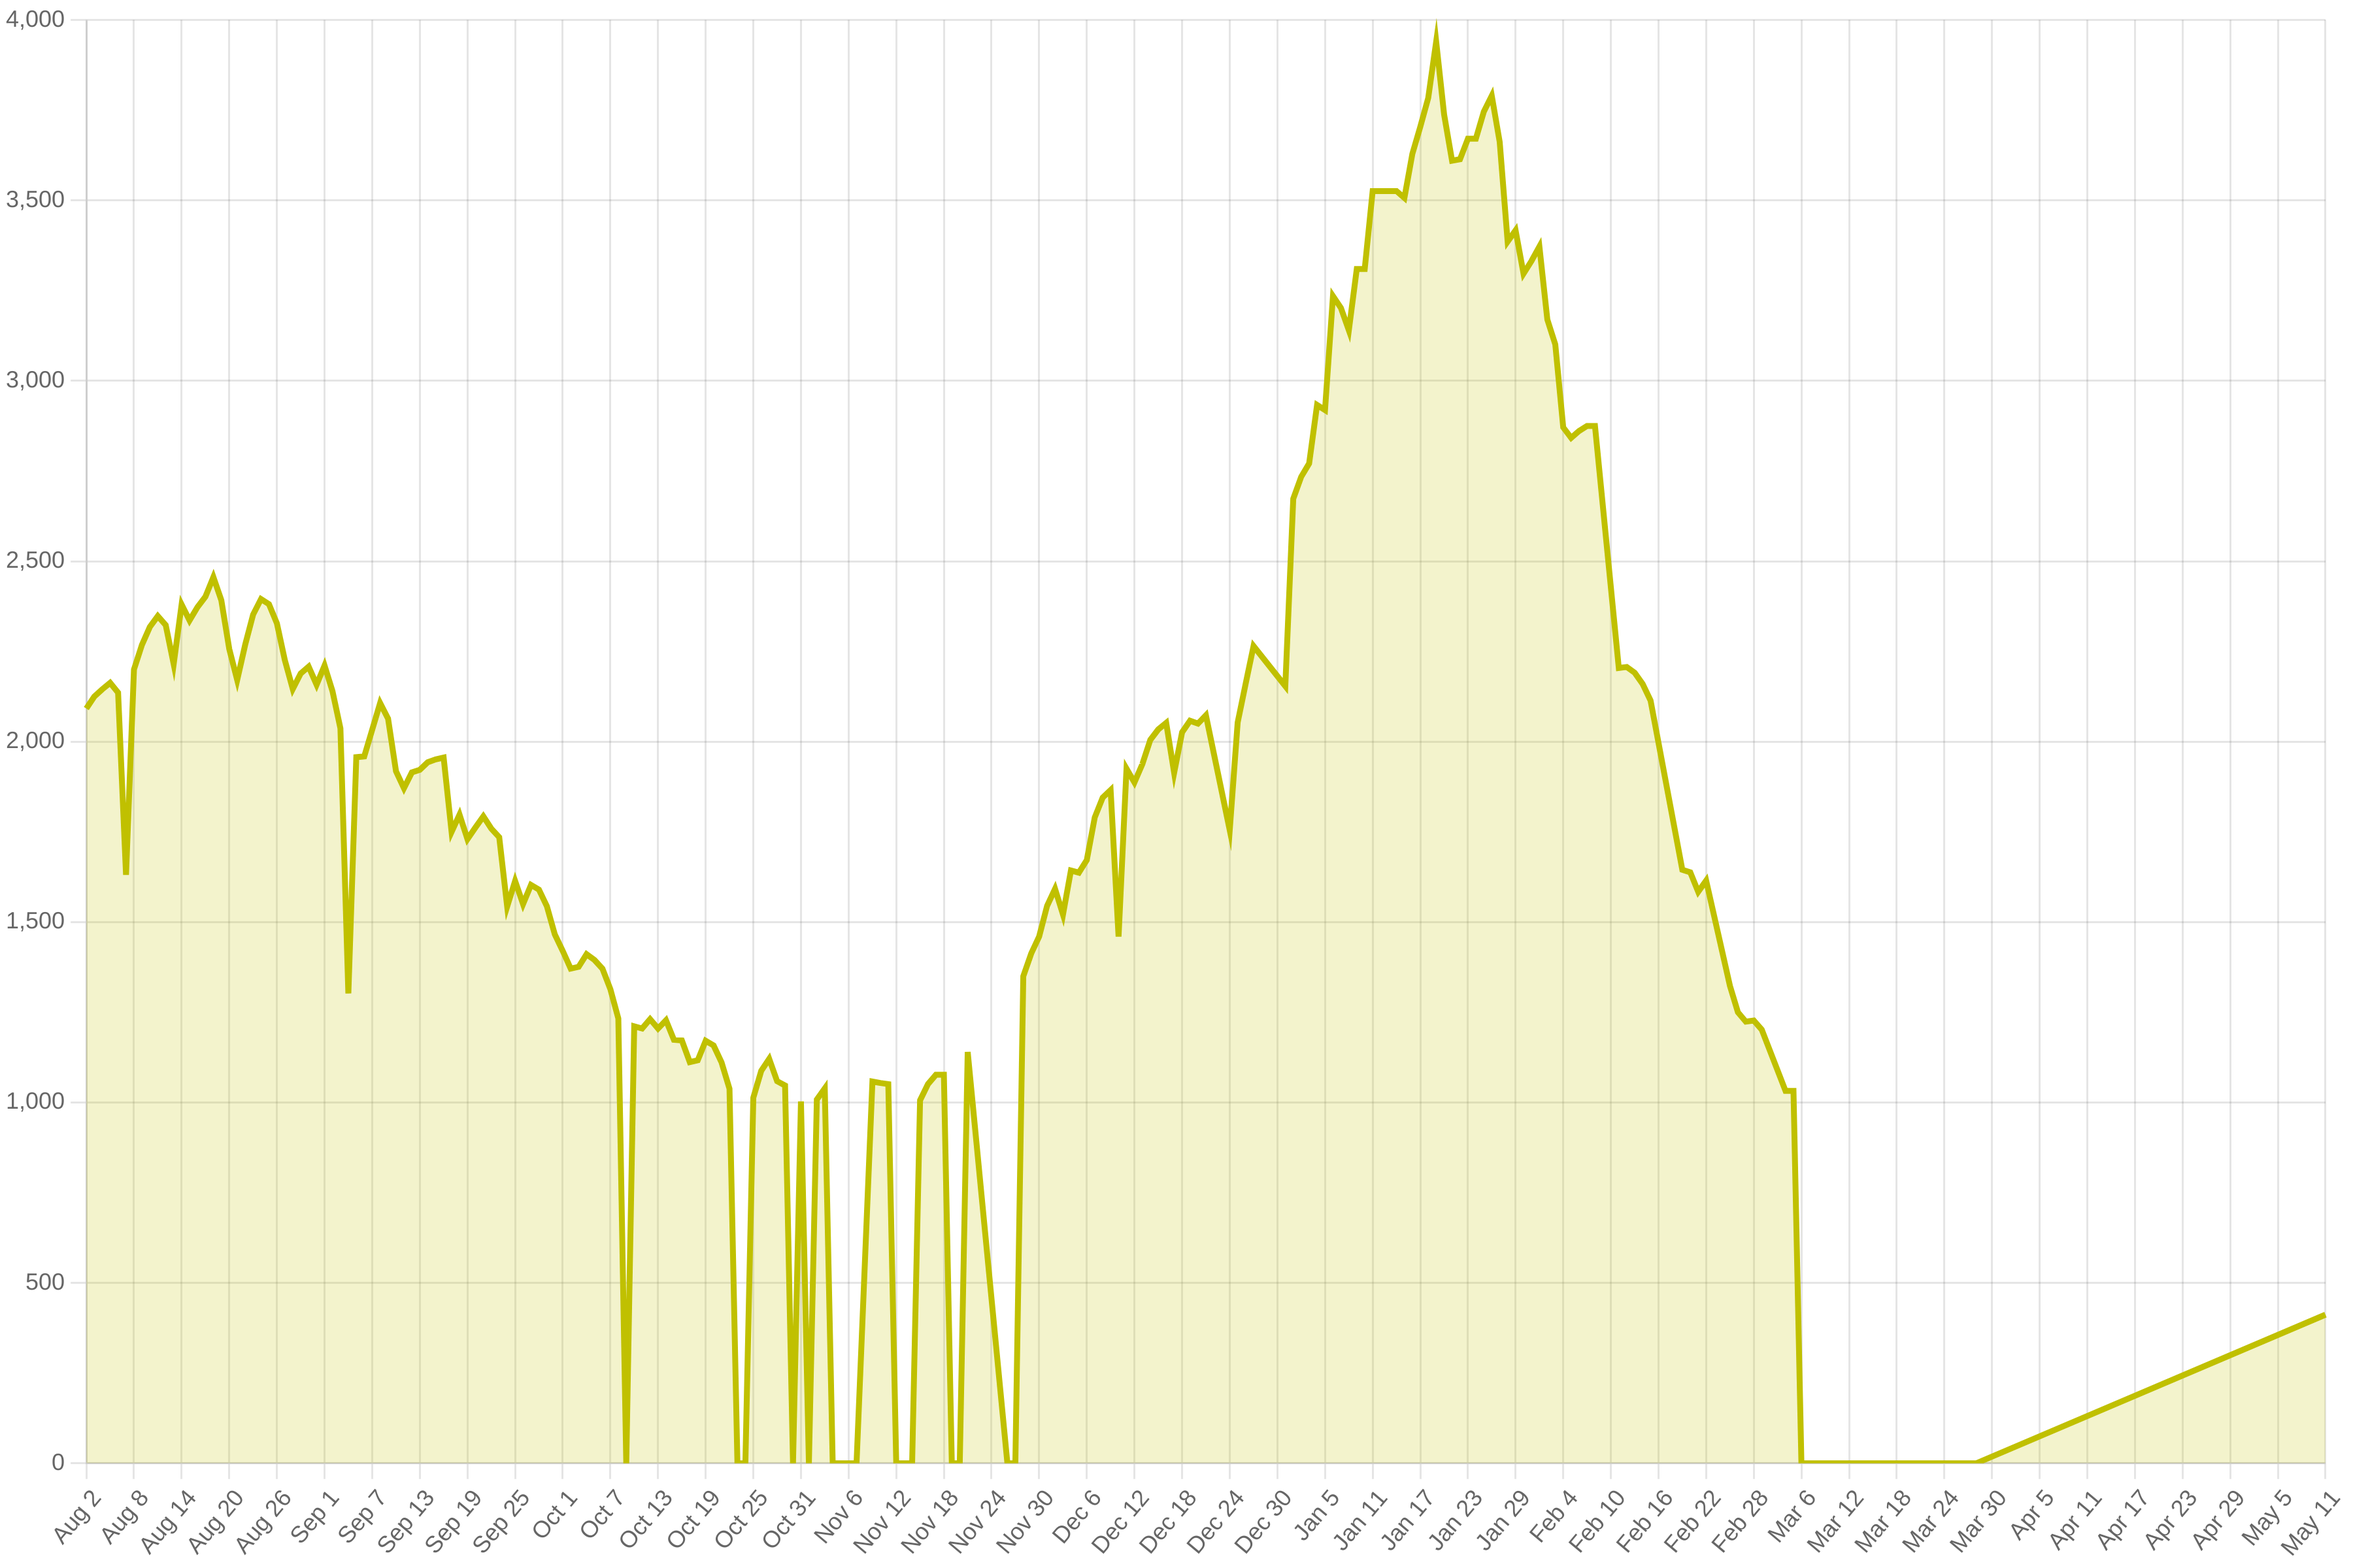
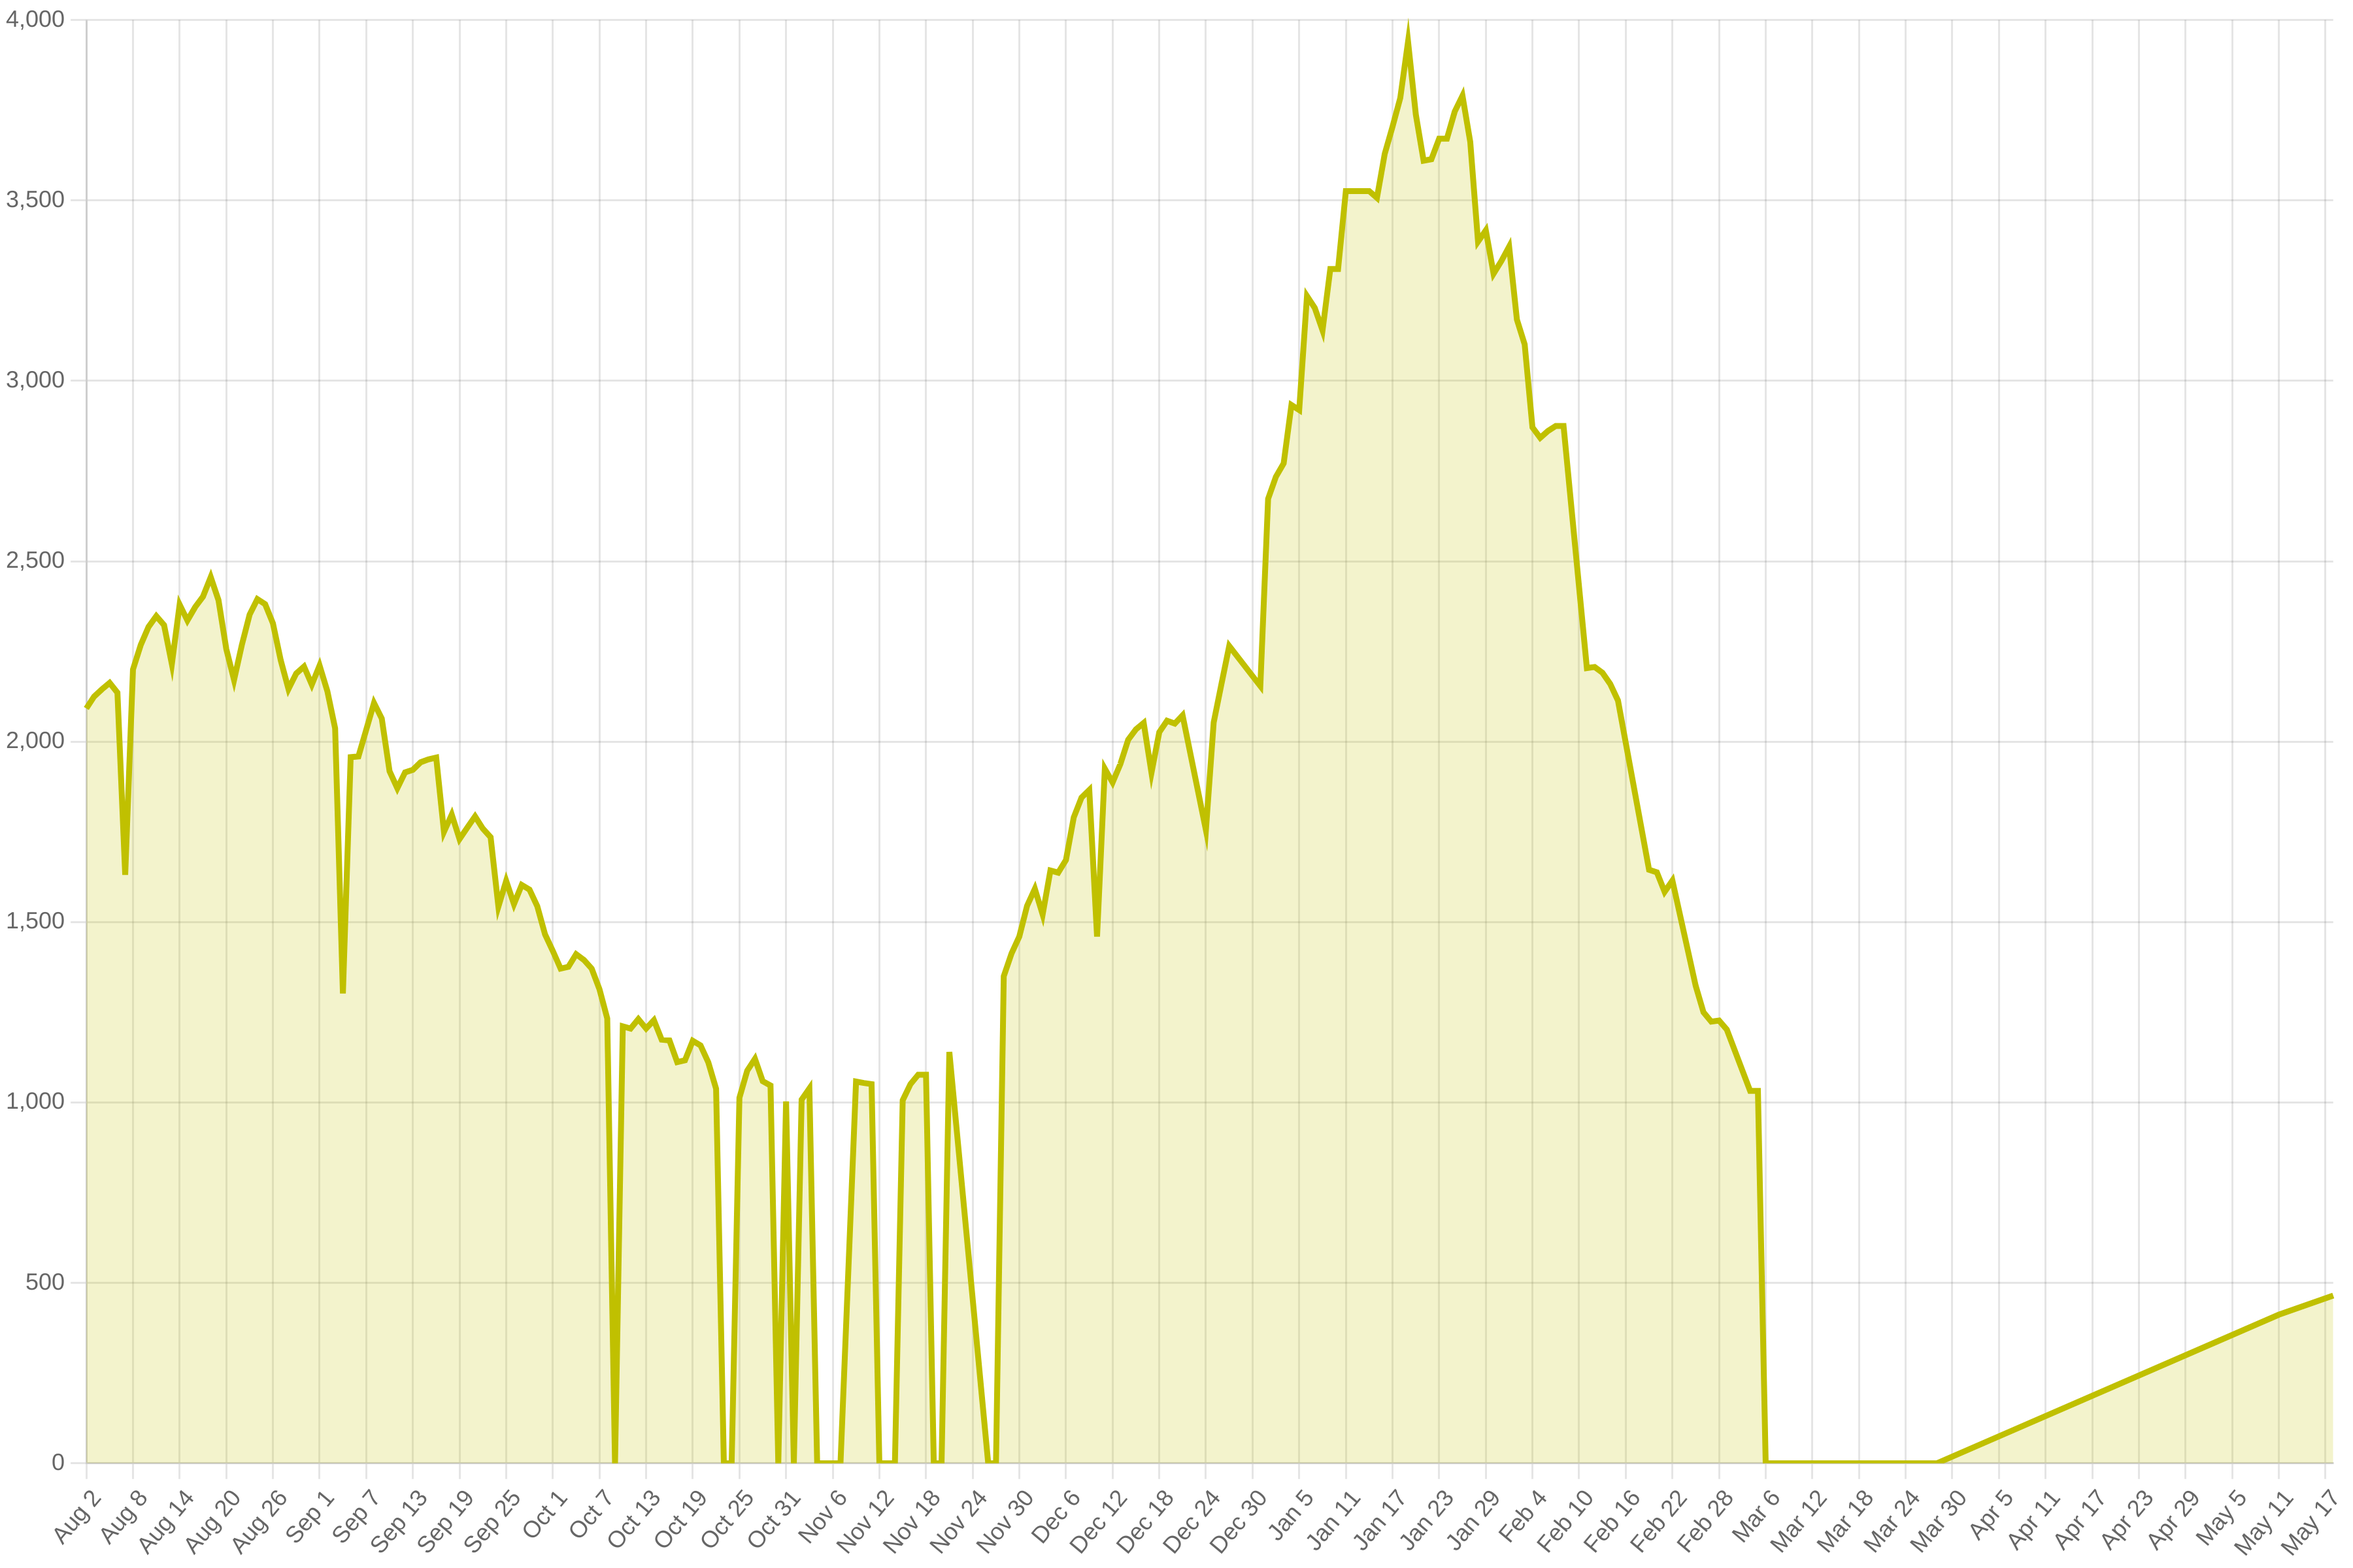
regular update

Changed region(s): [[0.0622, 0.0, 0.9956, 1.0]]

diff --git a/docs/index.html b/docs/index.html
@@ -43,10 +43,10 @@
     <main>
       <h1>Missouri COVID data</h1>
       <p>
-        The data on this page was updated <strong>Friday, May 13, 2022</strong>. For
+        The data on this page was updated <strong>Friday, May 20, 2022</strong>. For
         the values that are averages over 7 days, the start date is
-        <strong>Thursday, May 5, 2022</strong> and the end date is
-        <strong>Wednesday, May 11, 2022</strong>. The original data comes from the
+        <strong>Thursday, May 12, 2022</strong> and the end date is
+        <strong>Wednesday, May 18, 2022</strong>. The original data comes from the
         <a
           href="https://results.mo.gov/t/COVID19/views/WeeklyCOVIDMockup_16487370423730/WeeklyReport-Revised-v2?:embed=y&:showVizHome=no&:host_url=https%3A%2F%2Fresults.mo.gov%2F&:embed_code_version=3&:tabs=no&:toolbar=no&:showAppBanner=false&:display_spinner=no&:loadOrderID=0"
           >Missouri Department of Health and Senior Services</a
@@ -79,19 +79,19 @@
 
       <h2>New cases</h2>
       <p>
-        There have been <strong>5,602</strong> new cases in the
-        past 7 days, about <strong>800 per day</strong>.
+        There have been <strong>6,361</strong> new cases in the
+        past 7 days, about <strong>909 per day</strong>.
       </p>
       <img src="charts/totalPositive.png" />
 
       <h2>Outcomes</h2>
       <p>
-        There are currently 412 people hospitalized with
+        There are currently 465 people hospitalized with
         COVID-19.
       </p>
       <img src="charts/hospitalizations.png" />
 
-      <p>33 people are in intensive care.</p>
+      <p>51 people are in intensive care.</p>
       <img src="charts/icu.png" />
 
       <h2>Unavailable</h2>
